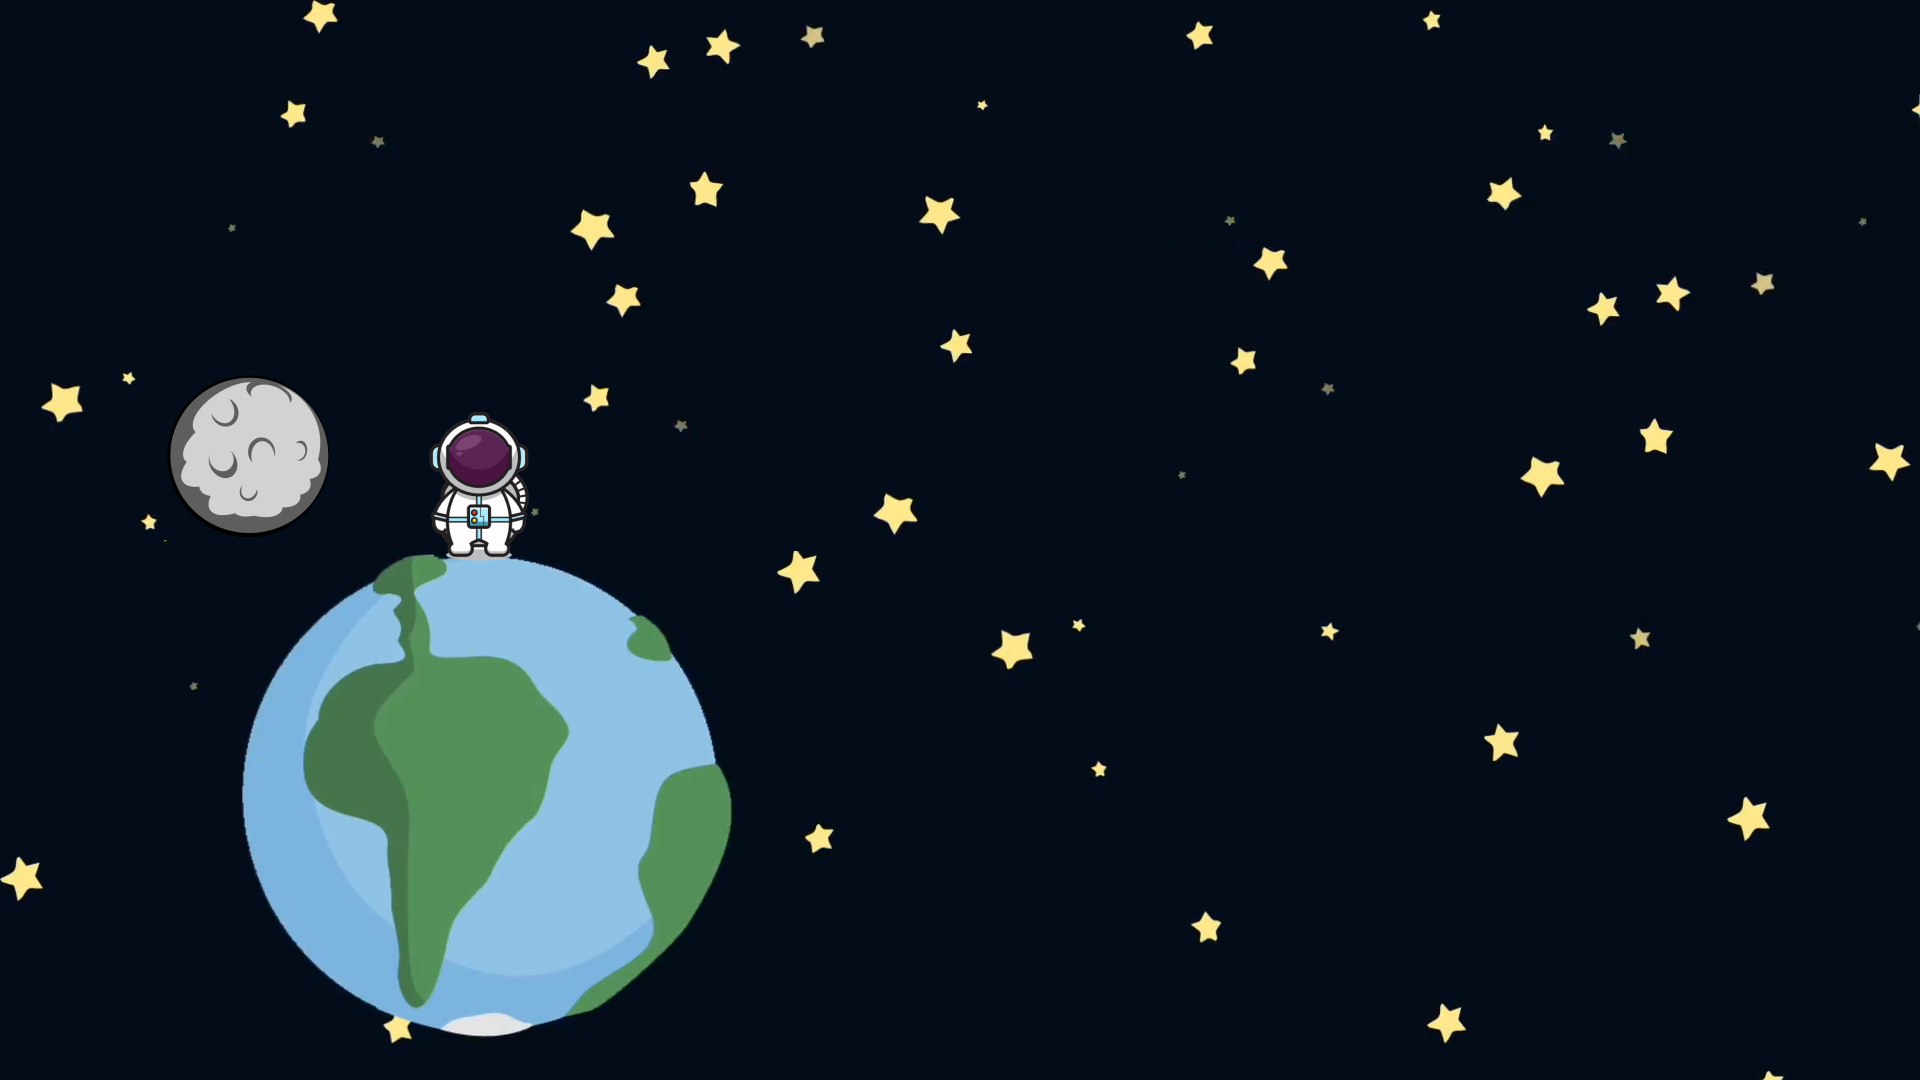
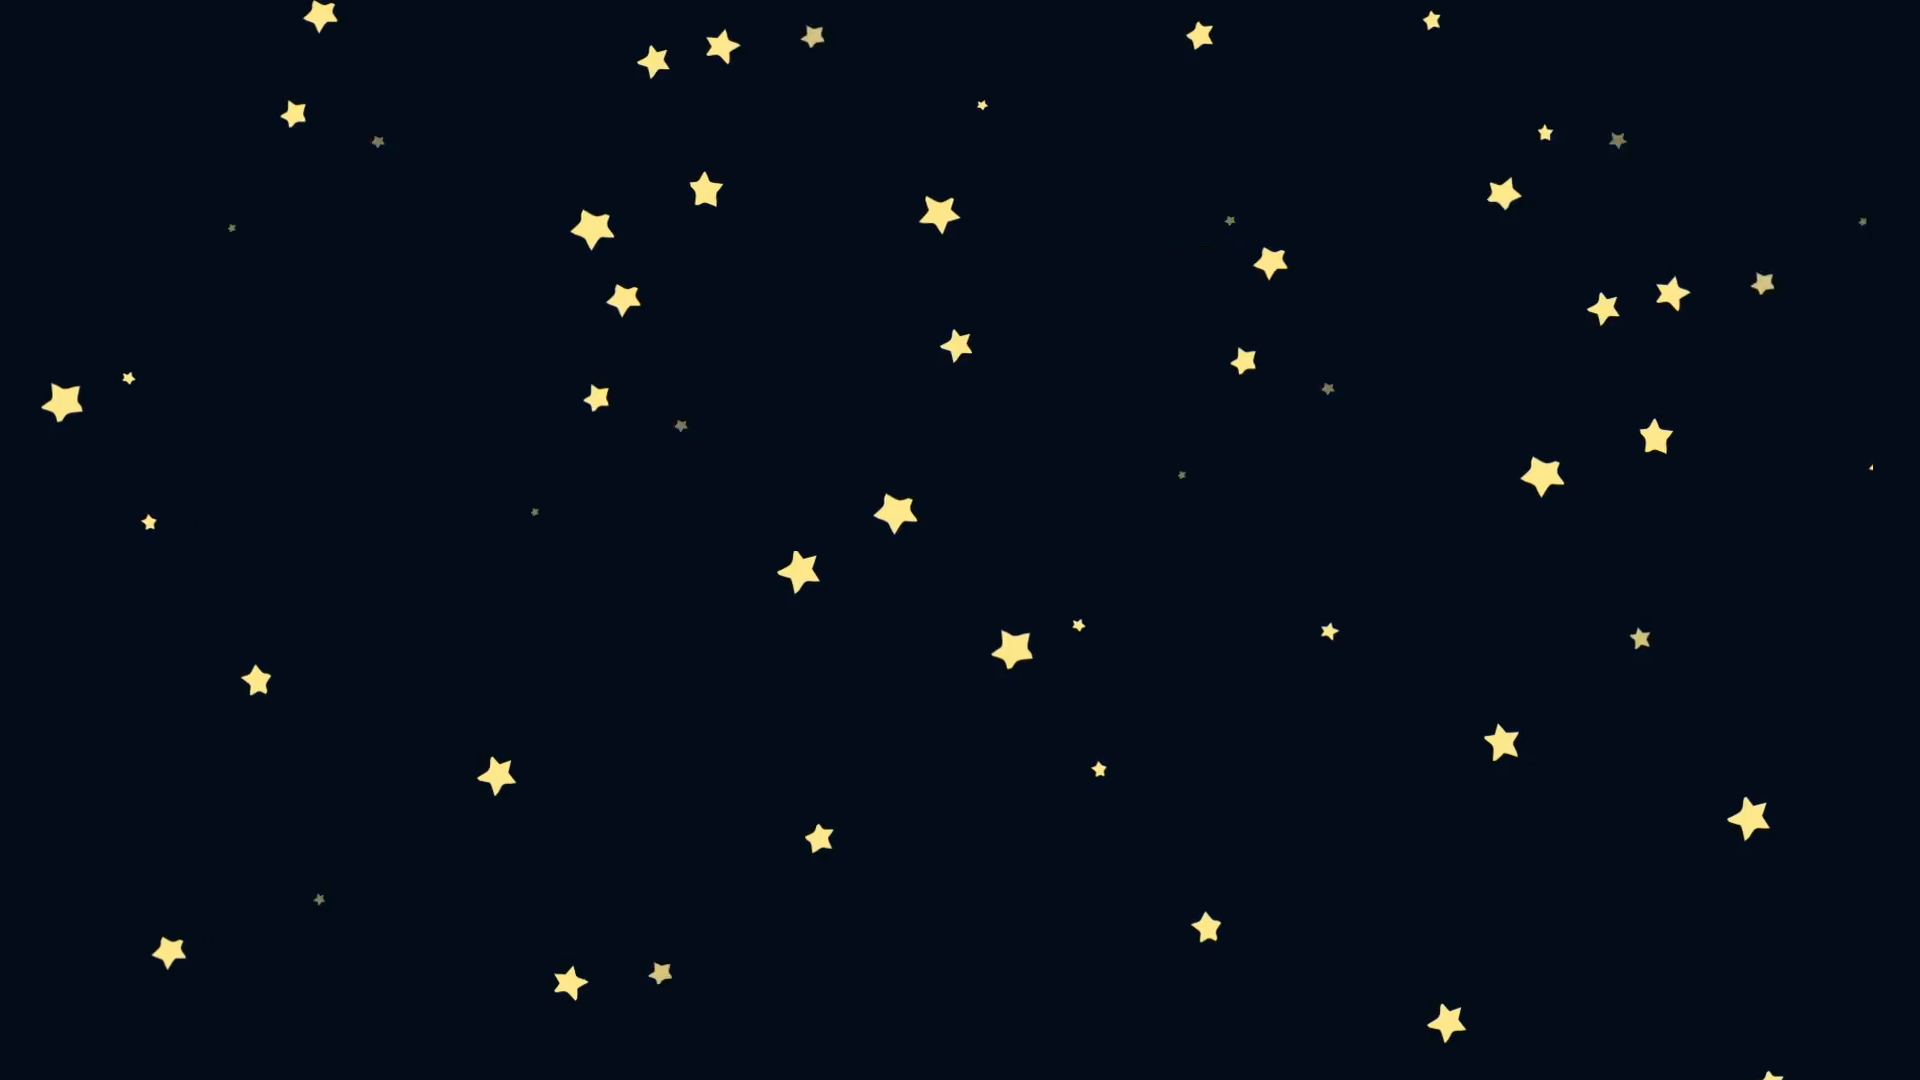
add astro, moon and earth

diff --git a/src/Components/Background.js b/src/Components/Background.js
@@ -1,0 +1,55 @@
+import styled from "styled-components";
+import React from "react";
+import UiContext from "../Contexts/UI";
+const Container = styled.div`
+  background-image: url(${process.env.PUBLIC_URL + "/Images/Background/LandingBackground.png"});
+  width: 100%;
+  height: 100%;
+`;
+const earthSize = 45;
+const Earth = styled.div`
+  background-image: url(${process.env.PUBLIC_URL + "/Images/Background/Earth.png"});
+  width: ${({ smallerDimension }) => (earthSize / 100) * smallerDimension}px;
+  height: ${({ smallerDimension }) => (earthSize / 100) * smallerDimension}px;
+  position: relative;
+  background-size: contain;
+  top: 90%;
+  transform: translate(0%, -100%);
+  left: 10%;
+  background-repeat: no-repeat;
+`;
+const Astronaut = styled.div`
+  background-image: url(${process.env.PUBLIC_URL + "/Images/Background/Astronaut.png"});
+  position: relative;
+  background-size: contain;
+  background-repeat: no-repeat;
+  transform: translate(-50%, -50%);
+  top: -7%;
+  left: 48%;
+  width: 40%;
+  height: 40%;
+`;
+const Moon = styled.div`
+  background-image: url(${process.env.PUBLIC_URL + "/Images/Background/Moon.png"});
+  position: relative;
+  background-size: contain;
+  background-repeat: no-repeat;
+  transform: translate(-50%, -50%);
+  top: -40%;
+  left: 5%;
+  width: 65%;
+  height: 65%;
+`;
+function Background() {
+  const uiContext = React.useContext(UiContext);
+  return (
+    <Container>
+      <Earth smallerDimension={uiContext.dimensions.smaller}>
+        <Astronaut />
+        <Moon />
+      </Earth>
+    </Container>
+  );
+}
+
+export default Background;

diff --git a/src/App.js b/src/App.js
@@ -2,21 +2,25 @@ import Landing from "./Components/Pages/Landing";
 import styled from "styled-components";
 import React from "react";
 import { debounce } from "./Helpers/UI";
+import { UIContextProvider } from "./Contexts/UI";
 const Container = styled.div`
   width: ${(props) => props.dimensions.width}px;
   height: ${(props) => props.dimensions.height}px;
 `;
+const defaultDimensions = {
+  height: window.innerHeight,
+  width: window.innerWidth,
+  smaller: window.innerHeight > window.innerWidth ? window.innerWidth : window.innerHeight,
+};
 
 function App() {
-  const [dimensions, setDimensions] = React.useState({
-    height: window.innerHeight,
-    width: window.innerWidth,
-  });
+  const [dimensions, setDimensions] = React.useState(defaultDimensions);
   React.useEffect(() => {
     const debouncedHandleResize = debounce(function handleResize() {
       setDimensions({
         height: window.innerHeight,
         width: window.innerWidth,
+        smaller: window.innerHeight > window.innerWidth ? window.innerWidth : window.innerHeight,
       });
     }, 100);
 
@@ -25,10 +29,13 @@ function App() {
       window.removeEventListener("resize", debouncedHandleResize);
     };
   });
+
   return (
-    <Container dimensions={dimensions}>
-      <Landing />
-    </Container>
+    <UIContextProvider value={{ dimensions }}>
+      <Container dimensions={dimensions}>
+        <Landing />
+      </Container>
+    </UIContextProvider>
   );
 }
 

diff --git a/src/Components/Pages/Landing.js b/src/Components/Pages/Landing.js
@@ -1,9 +1,5 @@
 import styled from "styled-components";
-const Background = styled.div`
-  background-image: url(${process.env.PUBLIC_URL + "/Images/Background/LandingBackground.png"});
-  width: 100%;
-  height: 100%;
-`;
+import Background from "../Background";
 
 function Landing() {
   return <Background></Background>;

diff --git a/src/Contexts/UI.js b/src/Contexts/UI.js
@@ -1,0 +1,4 @@
+import React from "react";
+const UiContext = React.createContext({});
+export const UIContextProvider = UiContext.Provider;
+export default UiContext;
